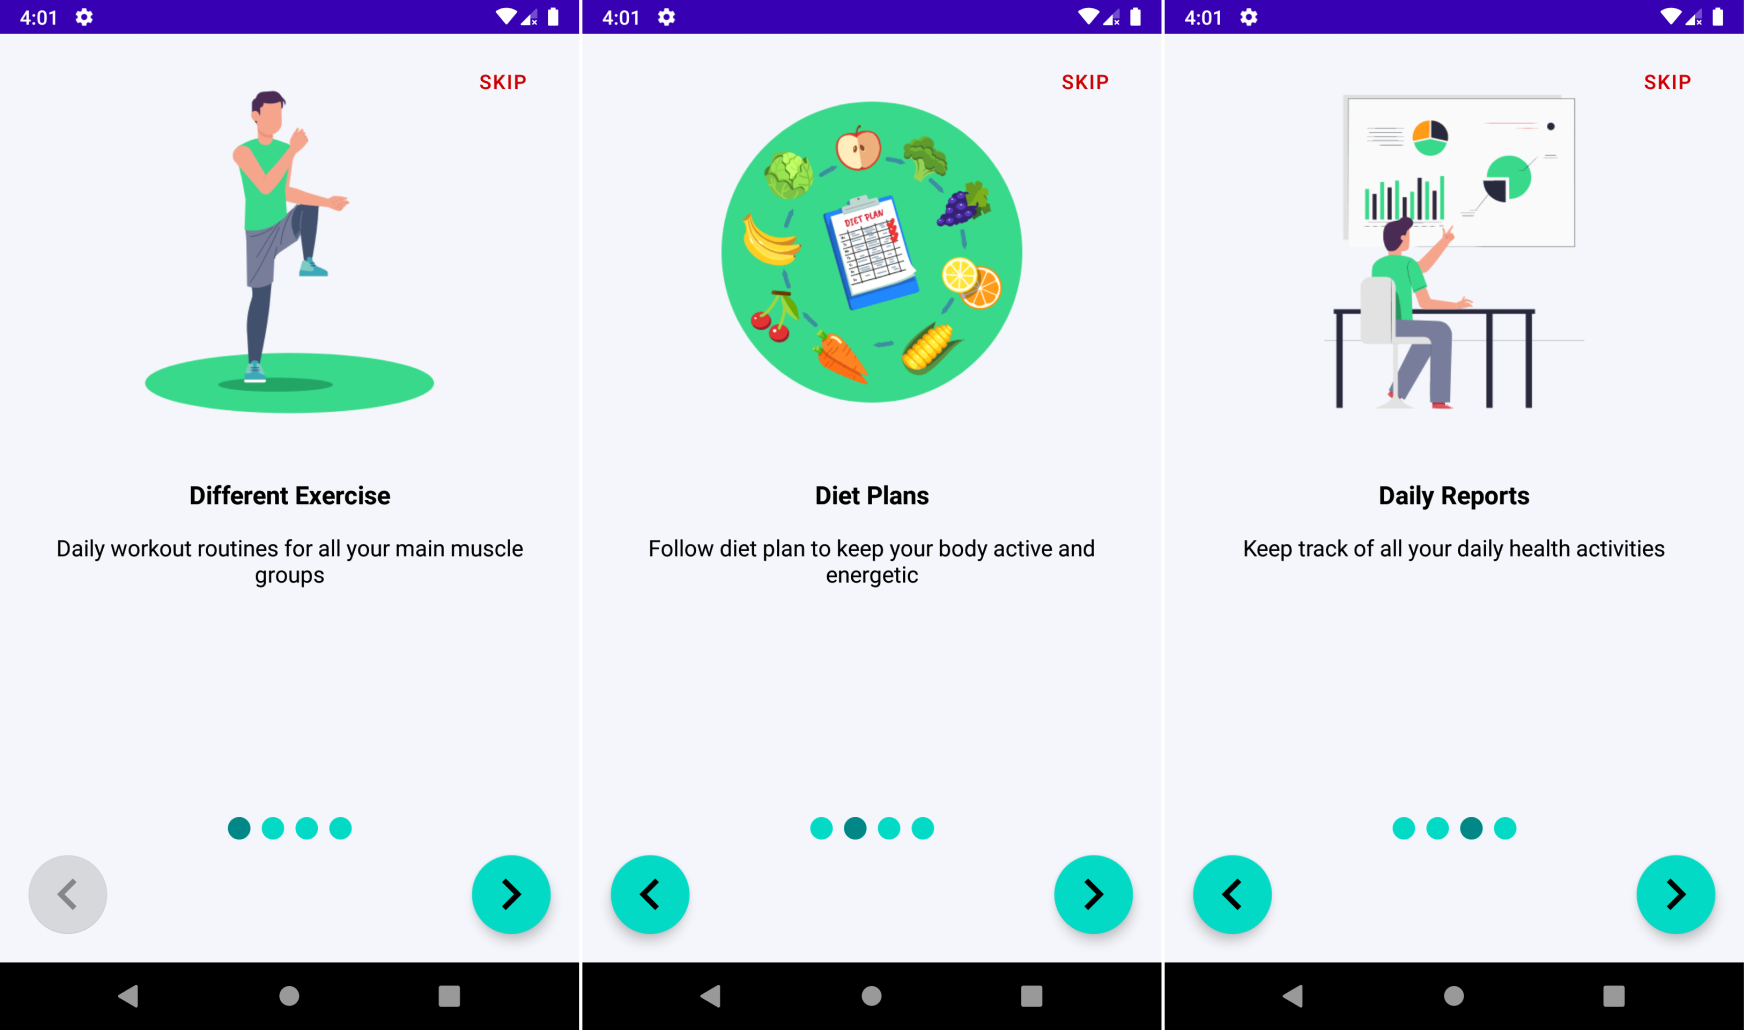
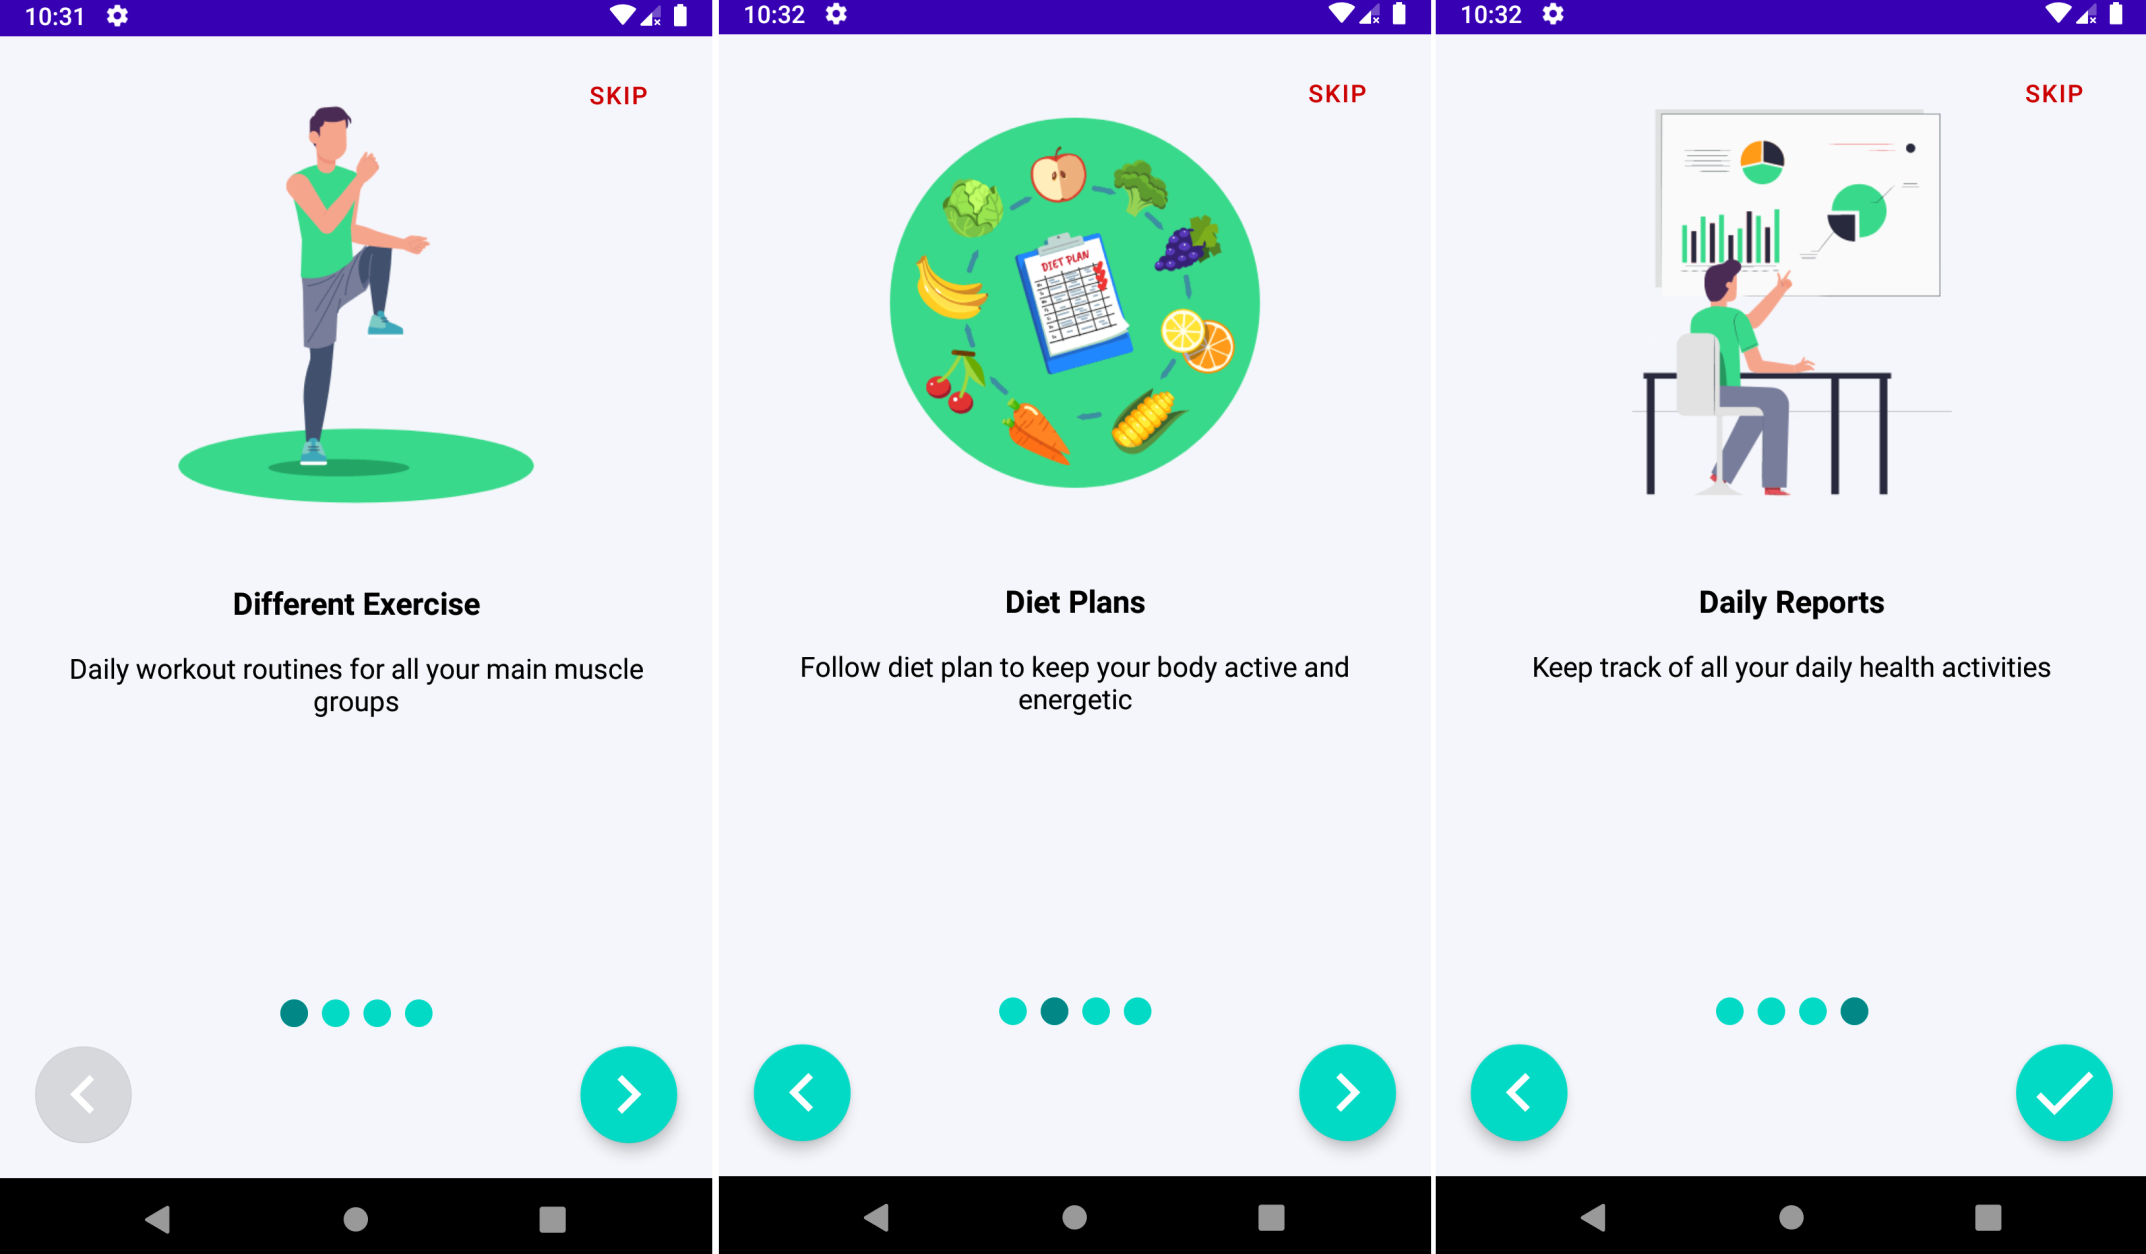
SlideShow Introduction

diff --git a/app/src/main/java/com/orbitalsonic/slideshowintroduction/IntroductionActivity.kt b/app/src/main/java/com/orbitalsonic/slideshowintroduction/IntroductionActivity.kt
@@ -40,6 +40,11 @@ class IntroductionActivity : AppCompatActivity() {
             override fun onPageSelected(position: Int) {
                 indicatorView.onPageSelected(position)
                 btnBeforeNavigate.isEnabled = position != 0
+                if (position==viewPager.adapter!!.count-1){
+                    btnNextNavigate.setImageResource(R.drawable.ic_baseline_done_24)
+                }else if (position==viewPager.adapter!!.count-2){
+                    btnNextNavigate.setImageResource(R.drawable.ic_baseline_navigate_next_24)
+                }
             }
 
             override fun onPageScrollStateChanged(state: Int) {
